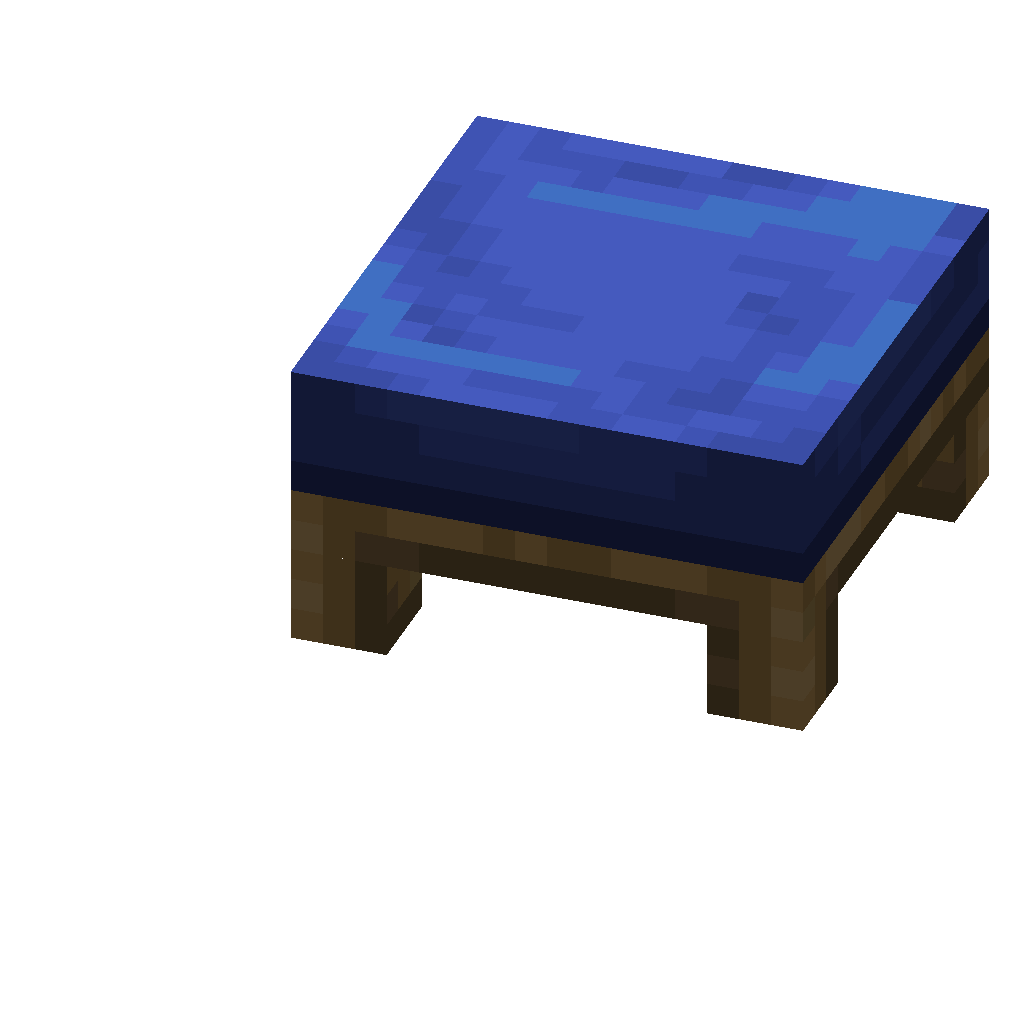
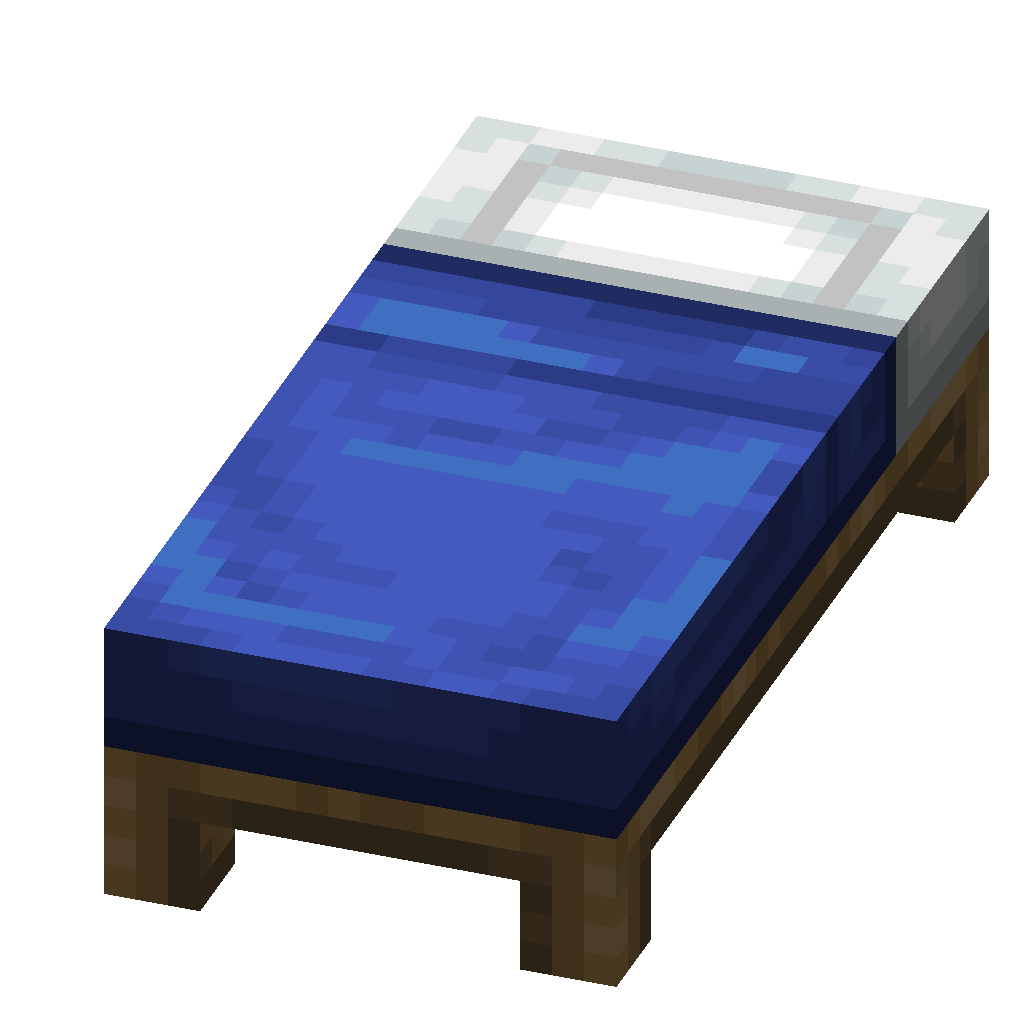
fix item transformations

diff --git a/blockmodel-utils.js b/blockmodel-utils.js
@@ -159,7 +159,8 @@ function parseTransformation(t) {
     return new THREE.Matrix4().fromArray(t)
   }
   const mat = new THREE.Matrix4()
-  const T = new THREE.Matrix4().makeTranslation(...(t.translation || [0, 0, 0]))
+  const [tx, ty, tz] = t.translation || [0, 0, 0]
+  const T = new THREE.Matrix4().makeTranslation(tx * 16, ty * 16, tz * 16)
   const L = new THREE.Matrix4().makeRotationFromQuaternion(new THREE.Quaternion(...(t.left_rotation || [0, 0, 0, 1])))
   const S = new THREE.Matrix4().makeScale(...(t.scale || [1, 1, 1]))
   const R = new THREE.Matrix4().makeRotationFromQuaternion(new THREE.Quaternion(...(t.right_rotation || [0, 0, 0, 1])))
@@ -923,7 +924,7 @@ async function resolveItemModel(assets, def, data, display, accTransform) {
       }
       model.special = def.model
       model.special.type = normalize(model.special.type)
-      if (currentTransform) model.transformation = currentTransform
+      if (currentTransform) model.transformation = currentTransform.elements
       return [model]
     }
 
@@ -1009,7 +1010,7 @@ async function resolveItemModel(assets, def, data, display, accTransform) {
     }
 
     if (type === "model") {
-      if (currentTransform) def = { ...def, transformation: currentTransform }
+      if (currentTransform) def = { ...def, transformation: currentTransform.elements }
       return [def]
     }
 
@@ -1702,7 +1703,7 @@ export async function loadModel(scene, assets, model, args) {
     const mat = model.transformation instanceof THREE.Matrix4
       ? model.transformation
       : parseTransformation(model.transformation)
-    if (mat) rootGroup.applyMatrix4(mat)
+    if (mat) containerGroup.applyMatrix4(mat)
   }
 
   scene.add(rootGroup)
